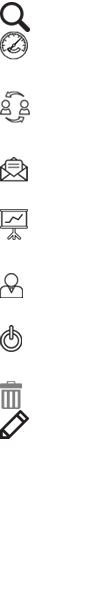
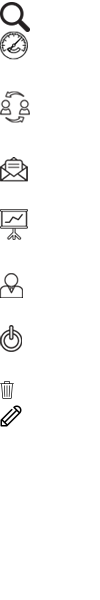
suggested changes done

Changed region(s): [[0.0, 0.63, 0.3, 0.75]]

diff --git a/mailer/manage-contact.html b/mailer/manage-contact.html
@@ -22,124 +22,126 @@
 			</form>
 		</div>
 	</header>
-	<div id="mySidenav" class="sidenav">
-	  <a href="javascript:void(0)" class="closebtn" onclick="closeNav()">&times;</a>
-	  <a href="#"><span class="sidenavIcon1"></span>Dashboard</a>
-	  <div class="leftNavSeperator"></div>
-	  <a href="#" class="active"><span class="sidenavIcon2Active"></span>Manage Contact</a>
-	  <div class="leftNavSeperator"></div>
-	  <a href="#"><span class="sidenavIcon3"></span>Manage Campaign</a>
-	  <div class="leftNavSeperator"></div>
-	  <a href="#"><span class="sidenavIcon4"></span>View Report</a>
-	  <div class="leftNavSeperator"></div>
-	  <a href="#"><span class="sidenavIcon5"></span>Profile</a>
-	  <div class="leftNavSeperator"></div>
-	  <a href="#"><span class="sidenavIcon6"></span>Logout</a>
-	</div>
-	<div id="main">
-	  <span class="hamburger" onclick="openNav()">&#9776; <h1>Manage Contacts</h1></span>
-	  <div class="ContentWrap">
-	  	You can add one contact at a time or paste contacts into a form or upload a file (Excel, text, CSV file).
-	  	<div class="ContactOptionWrap">
-	  		<div class="widget1">
-	  			<h2>Add Contacts</h2>
-	  			<form method="post" action="">
-	  				<div>
-	  					<input type="text" name="name" placeholder="Name" maxlength="250" />
-	  					<div class="error">
-	  						Please enter Name
-	  					</div>
-	  					<div class="spacer_6"></div>
-	  				</div>
-	  				<div>
-	  					<input type="email" name="email_address" placeholder="E-Mail Address" maxlength="250" />
-	  					<div class="error">
-	  						Please enter E-Mail Address
-	  					</div>
-	  					<div class="spacer_6"></div>
-	  				</div>
-	  				<div>
-	  					<select name="add_to_group" maxlength="250">
-		  					<option selected="selected">Add to group</option>
-		  				</select>
-	  				</div>
-	  				<button name="add_new_group" class="addGroupButton">Add new group</button>
-	  				<button name="add_contact" class="addContactButton">ADD Contact</button>
-	  			</form>
-	  		</div>
+	<div class="mainWrap">
+		<div id="mySidenav" class="sidenav">
+		  <a href="javascript:void(0)" class="closebtn" onclick="closeNav()">&times;</a>
+		  <a href="#"><span class="sidenavIcon1"></span>Dashboard</a>
+		  <div class="leftNavSeperator"></div>
+		  <a href="#" class="active"><span class="sidenavIcon2Active"></span>Manage Contact</a>
+		  <div class="leftNavSeperator"></div>
+		  <a href="#"><span class="sidenavIcon3"></span>Manage Campaign</a>
+		  <div class="leftNavSeperator"></div>
+		  <a href="#"><span class="sidenavIcon4"></span>View Report</a>
+		  <div class="leftNavSeperator"></div>
+		  <a href="#"><span class="sidenavIcon5"></span>Profile</a>
+		  <div class="leftNavSeperator"></div>
+		  <a href="#"><span class="sidenavIcon6"></span>Logout</a>
+		</div>
+		<div id="main">
+		  <span class="hamburger" onclick="openNav()">&#9776; <h1>Manage Contacts</h1></span>
+		  <div class="ContentWrap">
+		  	You can add one contact at a time or paste contacts into a form or upload a file (Excel, text, CSV file).
+		  	<div class="ContactOptionWrap">
+		  		<div class="widget1">
+		  			<h2>Add Contacts</h2>
+		  			<form method="post" action="">
+		  				<div>
+		  					<input type="text" name="name" placeholder="Name" maxlength="250" />
+		  					<div class="error">
+		  						Please enter Name
+		  					</div>
+		  					<div class="spacer_6"></div>
+		  				</div>
+		  				<div>
+		  					<input type="email" name="email_address" placeholder="E-Mail Address" maxlength="250" />
+		  					<div class="error">
+		  						Please enter E-Mail Address
+		  					</div>
+		  					<div class="spacer_6"></div>
+		  				</div>
+		  				<div>
+		  					<select name="add_to_group" maxlength="250">
+			  					<option selected="selected">Add to group</option>
+			  				</select>
+		  				</div>
+		  				<button name="add_new_group" class="addGroupButton">Add new group</button>
+		  				<button name="add_contact" class="addContactButton">ADD Contact</button>
+		  			</form>
+		  		</div>
 
-	  		<div class="widget2">
-	  			<h3>Paste Contacts</h3>
-	  			<form method="post" action="">
-	  				<div>
-	  					<textarea name="paste_contacts" maxlength="2500" placeholder="Paste Contacts"></textarea>
-	  					<div class="error">
-	  						Please Paste Contacts
-	  					</div>
-	  					<div class="spacer_6"></div>
-	  				</div>
-	  				<div>
-	  					<select name="add_to_group" maxlength="250">
-		  					<option selected="selected">Add to group</option>
-		  				</select>
-	  				</div>
-	  				<button name="add_new_group" class="addGroupButton">Add new group</button>
-	  				<button name="add_contact" class="addContactButton">ADD Contact</button>
-	  			</form>
-	  		</div>
+		  		<div class="widget2">
+		  			<h3>Paste Contacts</h3>
+		  			<form method="post" action="">
+		  				<div>
+		  					<textarea name="paste_contacts" maxlength="2500" placeholder="Paste Contacts"></textarea>
+		  					<div class="error">
+		  						Please Paste Contacts
+		  					</div>
+		  					<div class="spacer_6"></div>
+		  				</div>
+		  				<div>
+		  					<select name="add_to_group" maxlength="250">
+			  					<option selected="selected">Add to group</option>
+			  				</select>
+		  				</div>
+		  				<button name="add_new_group" class="addGroupButton">Add new group</button>
+		  				<button name="add_contact" class="addContactButton">ADD Contact</button>
+		  			</form>
+		  		</div>
 
-	  		<div class="widget3">
-	  			<h4>Select File</h4>
-	  			<form method="post" action="">
-	  				<div>
-	  					(You can upload Excel, text, CSV)
-	  					<div class="note">
-	  						You can easily export contact CSV file from your Outlook, Windows Mail, Mac address book, Gmail account, Hotmail account,Yahoo account or any other mail account and upload the same to your account.
-	  					</div>
-	  				</div>
-	  				<div>
-	  					<div class="uploadBtnWrapper">
-	  						<button class="uploadBtn">Upload File</button>
-	  						<input type="file" name="select_file" />
-	  					</div>
-	  					<div class="error">
-	  						Please Upload File
-	  					</div>
-	  					<div class="spacer_6"></div>
-	  				</div>
-	  				<div>
-	  					<select name="add_to_group" maxlength="250">
-		  					<option selected="selected">Add to group</option>
-		  				</select>
-	  				</div>
-	  				<button name="add_new_group" class="addGroupButton">Add new group</button>
-	  				<button name="add_contact" class="addContactButton">ADD Contact</button>
-	  			</form>
-	  		</div>
-	  	</div>
-	  	<div class="widget4">
-	  		<h5>Manage Groups</h5>
-	  		<div class="title">
-	  			You can edit or remove groups
-	  		</div>
-	  		<div class="groupList">
-	  			<div>Group Name</div>
-	  			<div>
-	  				<a href="" class="deleteIcon"></a>
-	  				<span class="iconSeperator"></span>
-	  				<a href="" class="editIcon"></a>
-	  			</div>
-	  		</div>
-	  		<div class="groupList">
-	  			<div>Group Name</div>
-	  			<div>
-	  				<a href="" class="deleteIcon"></a>
-	  				<span class="iconSeperator"></span>
-	  				<a href="" class="editIcon"></a>
-	  			</div>
-	  		</div>
-	  	</div>
-	  </div>
+		  		<div class="widget3">
+		  			<h4>Select File</h4>
+		  			<form method="post" action="">
+		  				<div>
+		  					(You can upload Excel, text, CSV)
+		  					<div class="note">
+		  						You can easily export contact CSV file from your Outlook, Windows Mail, Mac address book, Gmail account, Hotmail account,Yahoo account or any other mail account and upload the same to your account.
+		  					</div>
+		  				</div>
+		  				<div>
+		  					<div class="uploadBtnWrapper">
+		  						<button class="uploadBtn">Upload File</button>
+		  						<input type="file" name="select_file" />
+		  					</div>
+		  					<div class="error">
+		  						Please Upload File
+		  					</div>
+		  					<div class="spacer_6"></div>
+		  				</div>
+		  				<div>
+		  					<select name="add_to_group" maxlength="250">
+			  					<option selected="selected">Add to group</option>
+			  				</select>
+		  				</div>
+		  				<button name="add_new_group" class="addGroupButton">Add new group</button>
+		  				<button name="add_contact" class="addContactButton">ADD Contact</button>
+		  			</form>
+		  		</div>
+		  	</div>
+		  	<div class="widget4">
+		  		<h5>Manage Groups</h5>
+		  		<div class="title">
+		  			Edit / Remove Groups
+		  		</div>
+		  		<div class="groupList">
+		  			<div>Group Name</div>
+		  			<div>
+		  				<a href="" class="deleteIcon"></a>
+		  				<span class="iconSeperator"></span>
+		  				<a href="" class="editIcon"></a>
+		  			</div>
+		  		</div>
+		  		<div class="groupList">
+		  			<div>Group Name</div>
+		  			<div>
+		  				<a href="" class="deleteIcon"></a>
+		  				<span class="iconSeperator"></span>
+		  				<a href="" class="editIcon"></a>
+		  			</div>
+		  		</div>
+		  	</div>
+		  </div>
+		</div>
 	</div>
 	<script>
 	function openNav(){

diff --git a/mailer/assets/style.css b/mailer/assets/style.css
@@ -77,7 +77,7 @@ header{
 	text-overflow: ellipsis;
 	overflow: hidden;
 	display: inline-block;
-    vertical-align: middle;
+    vertical-align: top;
 }
 .search{
 	background: #f1f4f7;
@@ -107,11 +107,11 @@ header{
 /*Header ED*/
 /*Drawer ST*/
 .sidenav{
-    height: calc(100vh - 89px);
+    height: 100%;
     width: 0;
-    position: fixed;
+    position: absolute;
     z-index: 1;
-    top: 89px;
+    top: 0;
     left: 0;
     background: #fff;
     overflow-x: hidden;
@@ -138,6 +138,7 @@ header{
 	display: inline-block;
 	vertical-align: middle;
 	margin: 0 14px 0 0;
+	transition: 0.5s;
 }
 .sidenavIcon1, .sidenavIcon1Active{
 	background: url(icons.png) left -31px no-repeat;
@@ -218,16 +219,19 @@ header{
     padding: 16px;
 }
 .hamburger, .hamburger h1, .widget1 h2, .widget2 h3, .widget3 h4, .widget4 h5{
-	font-size: 26px;
-	font-weight: 300;
+	font-size: 22px;
+	font-weight: 600;
 	cursor: pointer;
 }
 /*Drawer ED*/
 /*Page Layout ST*/
+.mainWrap{
+	position: relative;
+}
 .ContentWrap{
 	margin: 7px 12px 12px 32px;
-	font-size: 16px;
-	font-weight: 400;
+	font-size: 14px;
+	font-weight: 600;
 }
 .ContactOptionWrap{
 	margin: 20px 0 5px;
@@ -250,7 +254,7 @@ header{
 	padding: 4px 0 6px;
 }
 .addContactButton{
-	font-size: 24px;
+	font-size: 22px;
 	font-weight: 700;
 	padding: 15px 0 14px;
 }
@@ -293,22 +297,25 @@ header{
 .groupList{
 	border-bottom: 1px dashed #939393;
 	display: flex;
-	padding: 10px 0;
+	padding: 7px 0;
 	font-size: 24px;
 	font-weight: 300;
 }
 .groupList div:nth-child(1){
 	flex: 1;
 }
-.deleteIcon{
-	background: url(icons.png) left -381px no-repeat;
-	width: 22px;
-	height: 28px;
+.deleteIcon,.editIcon{
+	width: 24px;
+	height: 24px;
 	display: inline-block;
 	vertical-align: middle;
 }
+.deleteIcon{
+	background: url(icons.png) left -381px no-repeat;
+}
+
 .iconSeperator{
-	margin: 0 7px 0 10px;
+	margin: 0 10px 0 0;
     display: inline-block;
     vertical-align: middle;
     width: 2px;
@@ -316,10 +323,6 @@ header{
     background: #444;
 }
 .editIcon{
-	background: url(icons.png) left -410px no-repeat;
-	width: 29px;
-	height: 29px;
-	display: inline-block;
-	vertical-align: middle;
+	background: url(icons.png) left -405px no-repeat;
 }
 /*Page Layout ED*/
